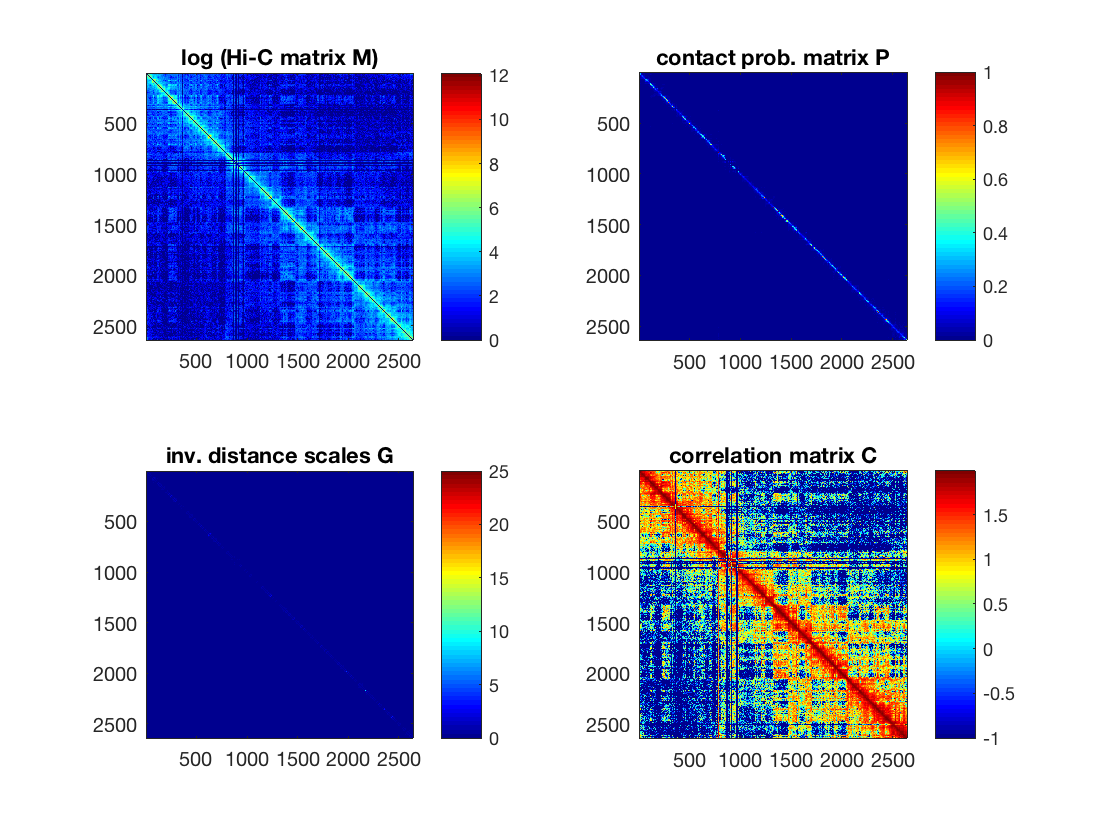
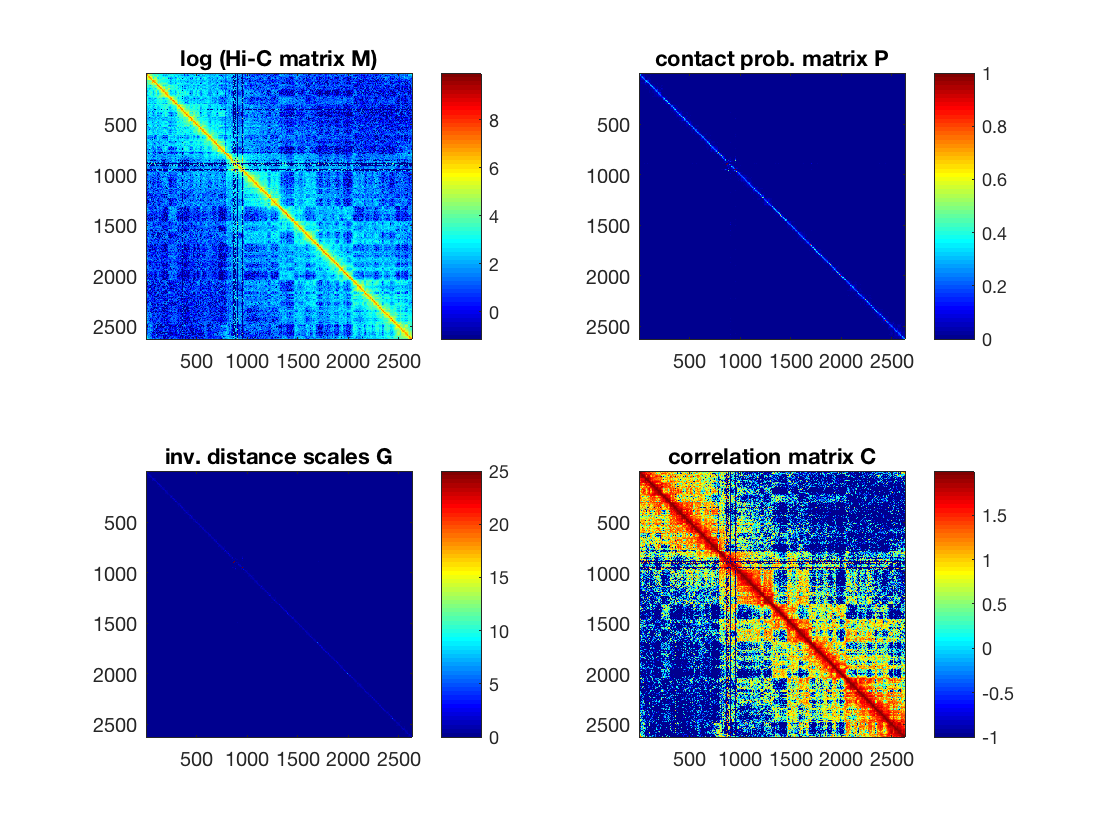
updated example output plot from demo1; also updated Data/readme

diff --git a/Data/readme.md b/Data/readme.md
@@ -26,8 +26,9 @@ The input Hi-C data for `demo1` should be passed in a MAT file, that contains a 
 Some simple formatting may be necessary, depending on how the original data is stored. For example, if you downloaded the Rao et al. (2014) dataset following the directions above, you need to:
 
 - Re-arrange the Hi-C count vector (third column in the "RAWobserved" file) into a symmetric square matrix. 
+- Perform Knight-Ruiz normalization using the provided normalization vector in their "KRnorm" file.
 
-See [their readme file](https://www.ncbi.nlm.nih.gov/geo/download/?acc=GSE63525&format=file&file=GSE63525%5FGM12878%5Fprimary%5FREADME%2Ertf) for documentations on the original data format.
+See [Rao et al.'s readme file](https://www.ncbi.nlm.nih.gov/geo/download/?acc=GSE63525&format=file&file=GSE63525%5FGM12878%5Fprimary%5FREADME%2Ertf) for documentations on the data formats.
 
 
 ### Importing to script
